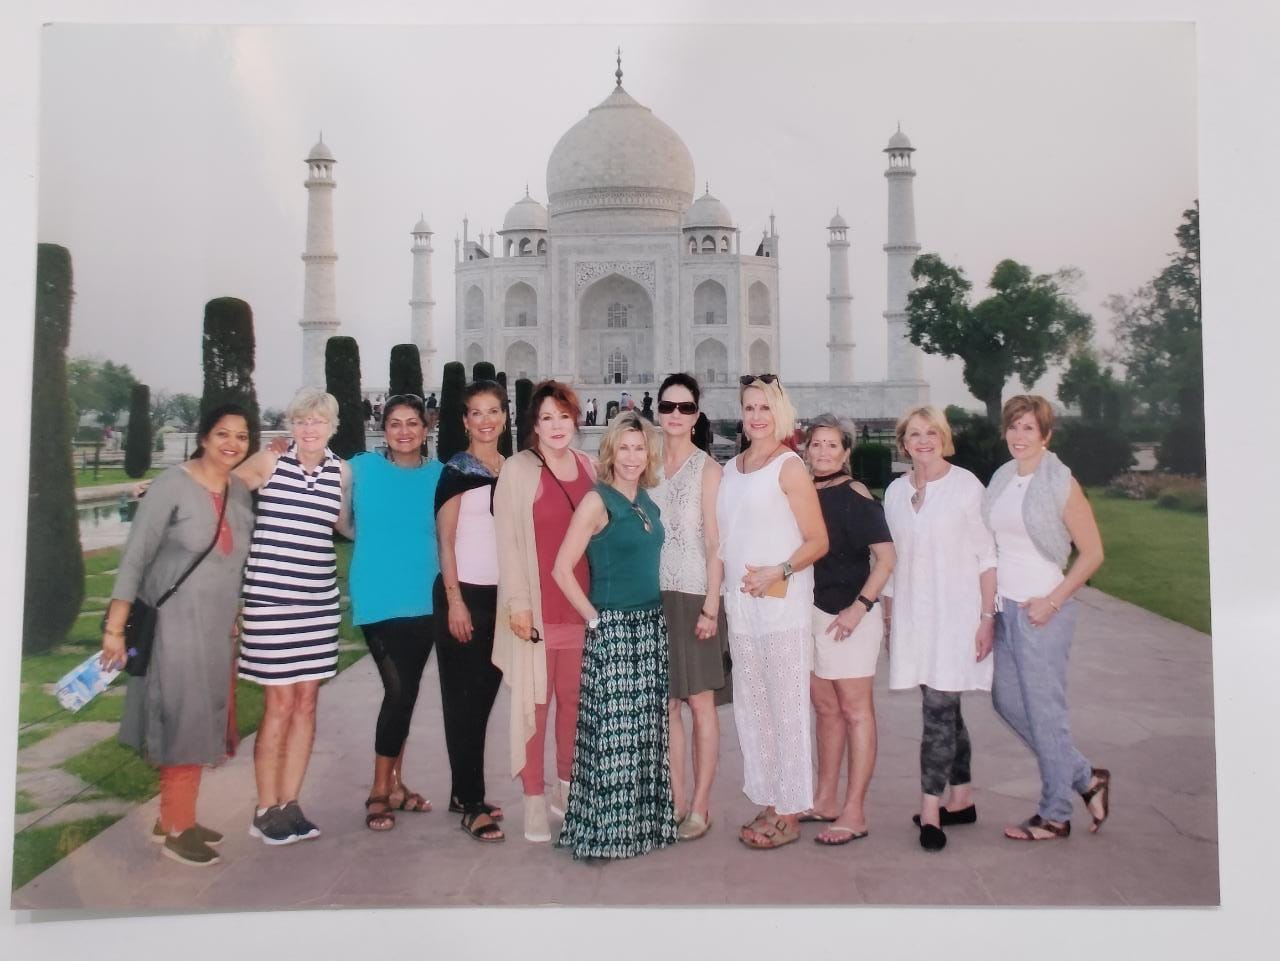
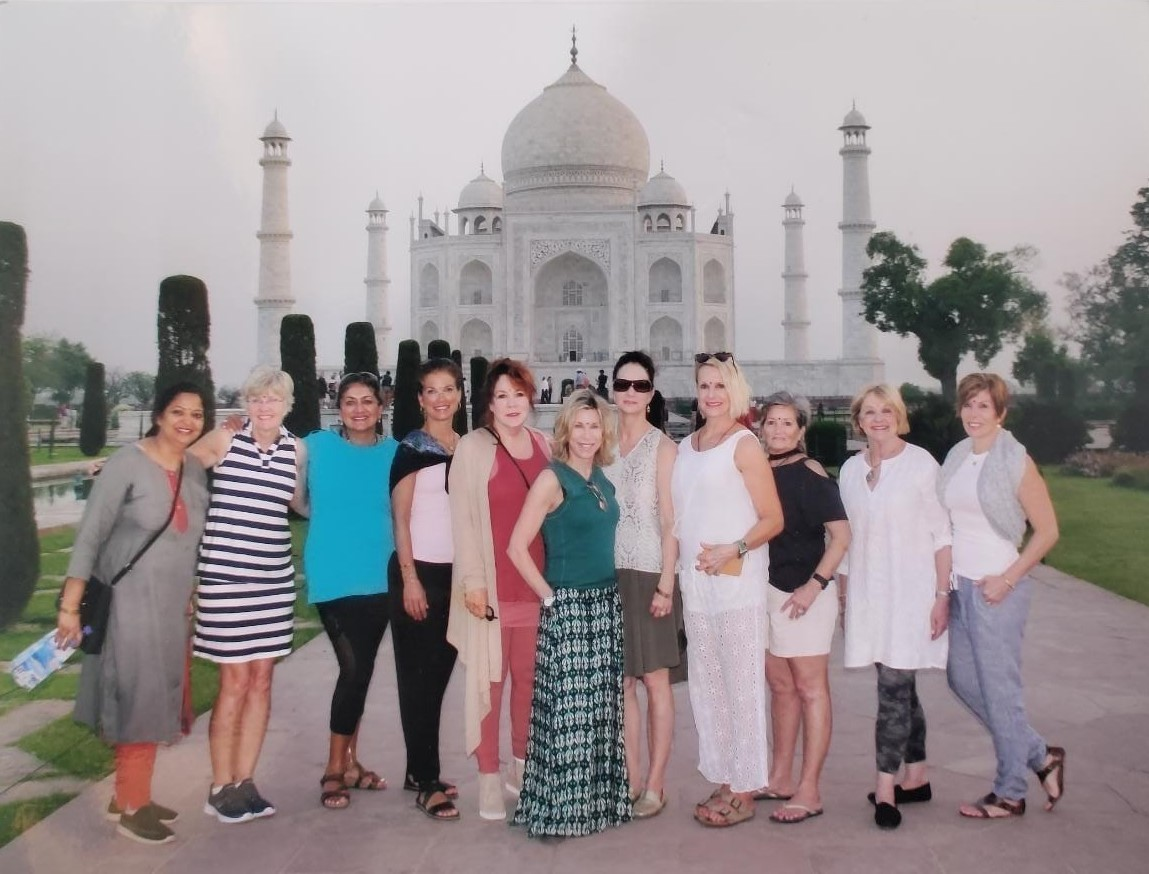
fix: load image

diff --git a/index.html b/index.html
@@ -16,14 +16,11 @@
   
 </head>
 <body>
-  <div class="preloader">
-    <div class="circle"></div>
-  </div>
 
   <nav class="navbar navbar-expand-md  sticky  fixed-top r-nav">
     <div class="container">
 
-      <a class="navbar-brand animated fadeInLeft" href="#">Tour with anu</a>
+      <a class="navbar-brand animated fadeInLeft" href="#home">Travel with anu</a>
       <button class="navbar-toggler" type="button" data-toggle="collapse" data-target="#navbarId" >
         <span><i class="fas fa-bars hamburger"></i></span>
       </button>
@@ -37,14 +34,15 @@
             <a class="nav-link" href="#about">About</a>
           </li>
           <li class="nav-item animated fadeInRight">
+            <a class="nav-link" href="#image">Image</a>
+          </li>
+          <li class="nav-item animated fadeInRight">
             <a class="nav-link" href="#services">Services</a>
           </li>
           <li class="nav-item animated fadeInRight">
             <a class="nav-link" href="#testimony">Client</a>
           </li>
-          <li class="nav-item animated fadeInRight">
-            <a class="nav-link" href="#work">Portfolio</a>
-          </li>
+          
           <li class="nav-item animated fadeInRight">
             <a class="nav-link" href="#contact">Contact</a>
           </li>
@@ -60,7 +58,7 @@
         <div class="col">
           <div class="content-box text-center animated fadeInUp">
             <h4>Welcome</h4>
-            <h1>I'M <span class="element" style="color:#EE8683;font-weight:bold;"></span></h1>
+            <h1>I'M Anuradha<span class="element" style="color:#EE8683;font-weight:bold;"></span></h1>
             <p>Lorem ipsum dolor sit amet, consectetur adipisicing elit. Officia maxime itaque ipsa, voluptatem inventore quis.</p>
             <a href="#" class="btn">DOWNLOAD CV</a>
           </div>
@@ -74,7 +72,7 @@
     <div class="container">
       <div class="row">
         <div class="col-lg-6 way-fade-up">
-          <img src="images/profile.jpg" class="img-fluid img-thumbnail" alt="Profile Picture">
+          <img src="images/w11.jpg" class="img-fluid img-thumbnail" alt="Profile Picture">
         </div>
         <div class="col-lg-6 way-fade-up mt-5 mt-lg-0 about-me">
           <h2>About Me</h2>
@@ -137,7 +135,7 @@
     </div>
   </section>
 
-  <section class="image-gallery">
+  <section class="image-gallery" id="image">
     <div class="container">
         <h2>Image Gallery</h2>
         <ul class="gallery">
@@ -315,10 +313,7 @@
                 <p class="test-name">Jessi Walter, Ceo Murno.com</p>
               </div>
             </div>
-
           </div>
-
-
         </div>
       </div>
     </div>

diff --git a/css/style.css b/css/style.css
@@ -174,7 +174,7 @@ header {
   width: 100%;
   background-image: linear-gradient(rgba(0, 0, 0, 0.5), rgba(0, 0, 0, 0.5)),
     url("../images/background.jpg");
-  background-repeat: no-repeat;
+  
   background-size: cover;
   background-position: center;
 }
